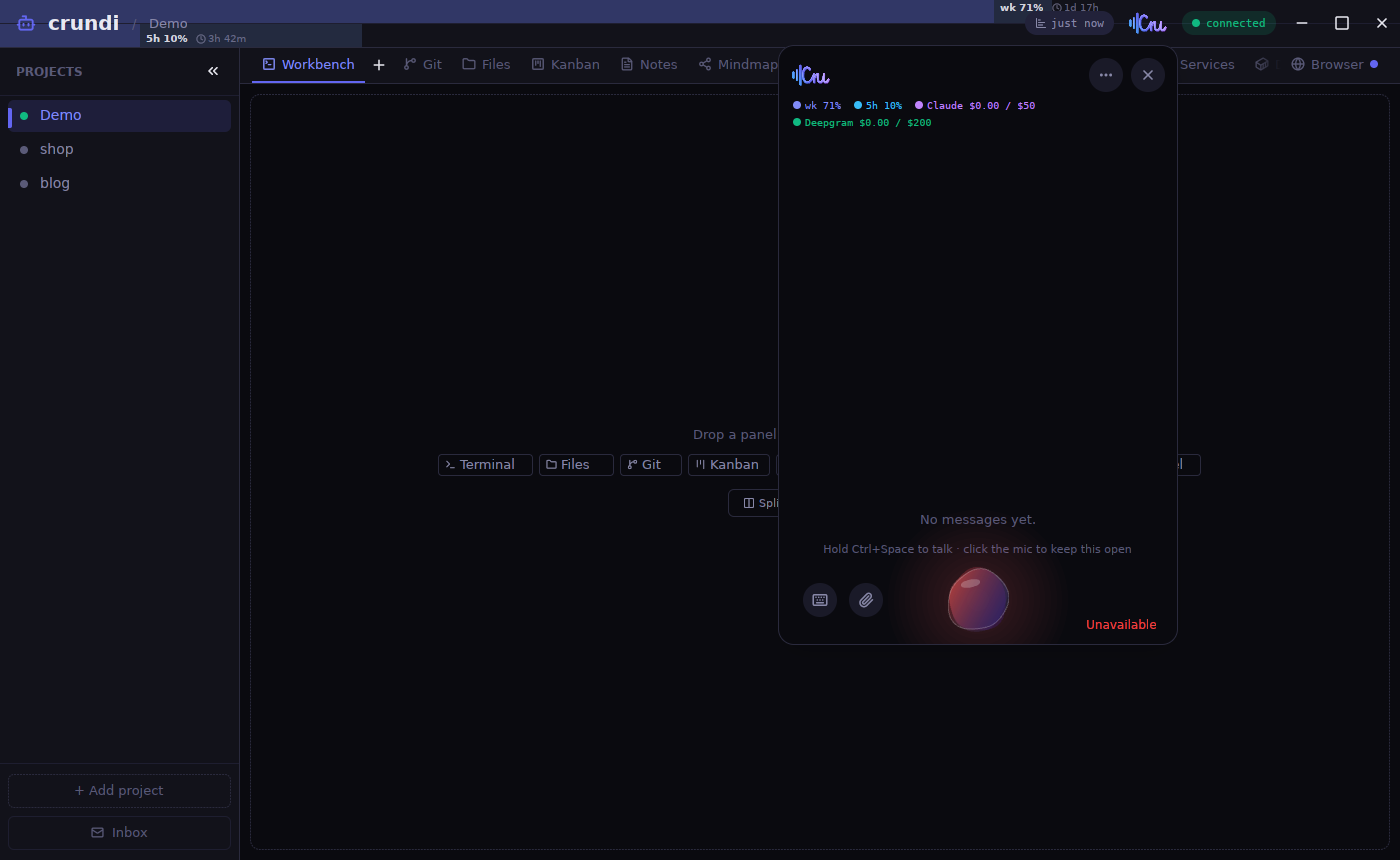
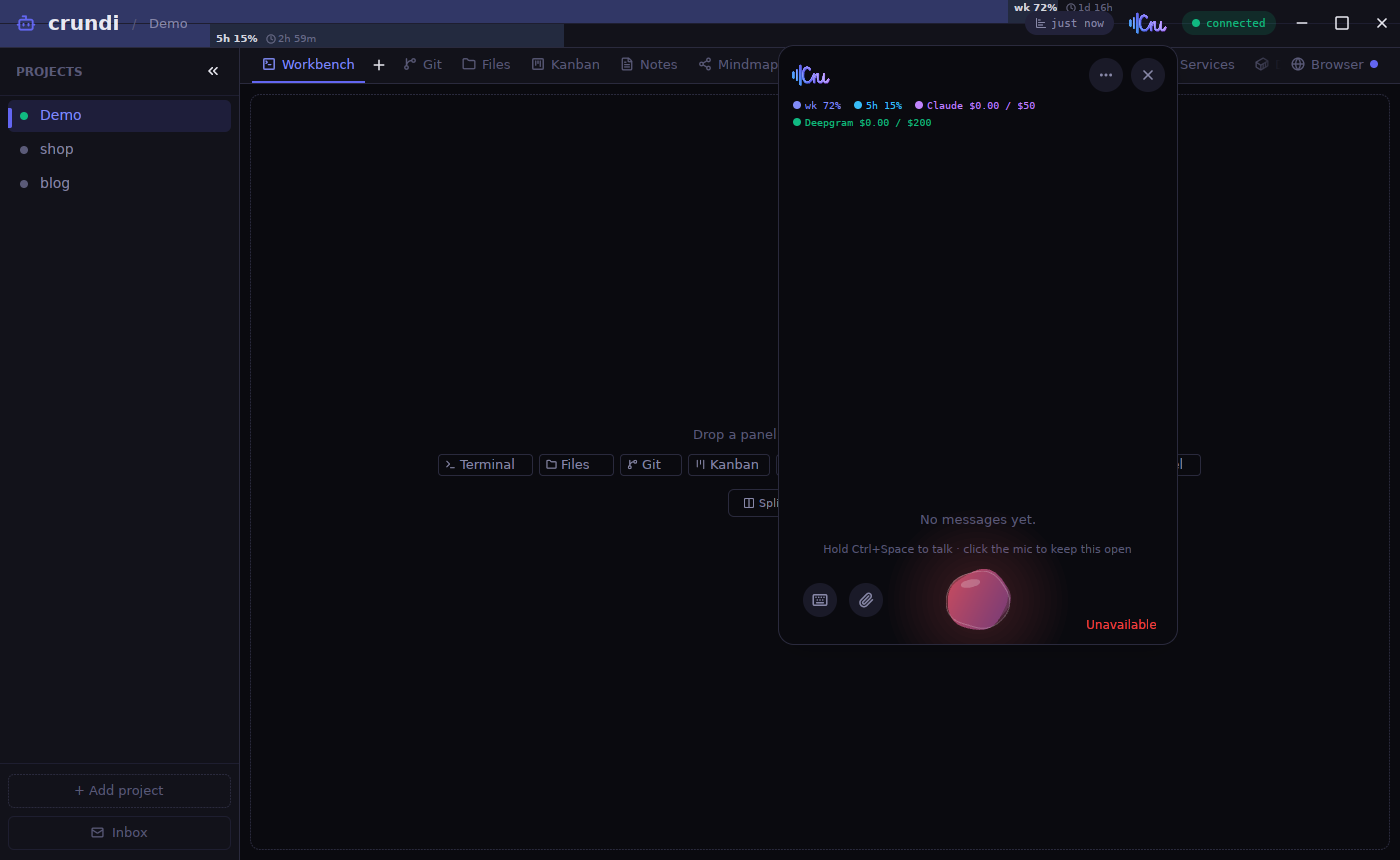
native-gpui: Cru's mic in the web's colours; the tour's Next as the web's
- The mic: the web adds its three layers' light ('lighter', 0.55 each),
  so a state glows in its colours (red and pink when unavailable); GPUI
  paints over, so it came out red to violet. Each layer is now painted in
  the colour the adding gives, over what is under the blob, and its
  gradient is the part of the web's the blob shows (0.276 to 0.724 along
  its wider span).
- The tour's Next and Done: the web's accent glow under them, and the
  focus ring as the PC client shows it (light, outside a dark gap).

Checked: the green project cell in Cru is the web's rule (a project with
an open chat or a running service), not a gap. desktop.mjs ONLY=cru 54/54,
operations.mjs ONLY=extras 49/49.

Made with Crundi (https://crundi.faruhaan.com)

diff --git a/native-gpui/crates/widgets/src/liquid_mic.rs b/native-gpui/crates/widgets/src/liquid_mic.rs
@@ -131,10 +131,23 @@ fn paint(bounds: Bounds<Pixels>, l: &Liquid, look: &MicLook, t: f32, ms: f64, wi
             point(px(cx + sx + (bx - sx) * m), px(cy + sy + (by - sy) * m))
         }).collect()
     };
+    // The web draws the three layers adding light ('lighter', each at 0.55),
+    // which is what makes a red state glow red and pink. GPUI paints over,
+    // not adding, so each layer is painted opaque in the colour the adding
+    // would give: what is under the blob (the panel and the glow at its
+    // middle) plus 0.55 of every layer so far. The layers nearly overlap, so
+    // this is the web's colour everywhere but a hair at their edges.
+    let under = mix(T::bg(), look.layers[0].0, 0.18 + 0.2 * l.lv);
+    let k = 0.55 * look.dim;
+    let (mut s0, mut s1) = (under, under);
     for (i, (c0, c1)) in look.layers.iter().enumerate() {
         let pts = shape(t + i as f32 * 0.7, i as f32 * 1.3);
-        let a = 0.6 * look.dim;
-        let bg = linear_gradient(116., linear_color_stop(c0.opacity(a), 0.), linear_color_stop(c1.opacity(a), 1.));
+        // The web's gradient runs from (-2r,-r) to (2r,r): wider than the
+        // blob, which shows only its middle (0.276 to 0.724 along it).
+        // GPUI's spans the blob itself, so its ends are those colours.
+        s0 = add(s0, mix(*c0, *c1, 0.276), k);
+        s1 = add(s1, mix(*c0, *c1, 0.724), k);
+        let bg = linear_gradient(116., linear_color_stop(Hsla::from(s0), 0.), linear_color_stop(Hsla::from(s1), 1.));
         polygon(window, &pts, Some(bg), None);
     }
     polygon(window, &shape(t, 0.), None, Some((px(1.), T::white().opacity(0.22))));
@@ -160,4 +173,16 @@ pub fn liquid_mic(id: impl Into<ElementId>, liquid: &Liquid, look: MicLook, t: f
         .child(canvas(|_, _, _| {}, move |b, _, window, _| paint(b, &l, &look, t, ms, window))
             .absolute().left((box_size - cw) / 2.).top((box_size - ch) / 2.).w(cw).h(ch))
         .tooltip(crate::tooltip(tip.into()))
+}
+
+/// `base` with `color` laid over it at `alpha` (normal blending), as RGB.
+fn mix(base: Hsla, color: Hsla, alpha: f32) -> Rgba {
+    let (b, c, a) = (base.to_rgb(), color.to_rgb(), alpha.clamp(0., 1.));
+    Rgba { r: b.r + (c.r - b.r) * a, g: b.g + (c.g - b.g) * a, b: b.b + (c.b - b.b) * a, a: 1. }
+}
+
+/// `color` at `k` added to `base`, each channel capped at full: the canvas's
+/// 'lighter' blending.
+fn add(base: Rgba, color: Rgba, k: f32) -> Rgba {
+    Rgba { r: (base.r + color.r * k).min(1.), g: (base.g + color.g * k).min(1.), b: (base.b + color.b * k).min(1.), a: 1. }
 }

diff --git a/native-gpui/crates/widgets/src/label_icon_button.rs b/native-gpui/crates/widgets/src/label_icon_button.rs
@@ -34,5 +34,13 @@ pub fn label_icon_button(id: impl Into<ElementId>, label: impl Into<SharedString
     let b = Button::new(id);
     let b = if look == Look::Primary { b.primary() } else { b };
     b.rounded(radius).flex_none().h(h).px(pad).child(inner)
-        .when(look == Look::Primary && large, |b| b.shadow(vec![BoxShadow { color: T::accent_hover(), offset: point(px(0.), px(0.)), blur_radius: px(0.), spread_radius: T::SP_2, inset: false }]))
+        // The large primary (the tour's Next and Done) as the web's .wn-btn.primary:
+        // its accent glow under it, and the focus ring it has from opening.
+        .when(look == Look::Primary && large, |b| b.shadow(vec![
+            BoxShadow { color: T::accent().opacity(0.35), offset: point(px(0.), T::SP_8), blur_radius: T::SP_24, spread_radius: px(0.), inset: false },
+            // The focus ring as the PC client shows it (the browser's own):
+            // a light ring outside a dark gap.
+            BoxShadow { color: T::text(), offset: point(px(0.), px(0.)), blur_radius: px(0.), spread_radius: T::SP_4, inset: false },
+            BoxShadow { color: T::bg(), offset: point(px(0.), px(0.)), blur_radius: px(0.), spread_radius: T::SP_2, inset: false },
+        ]))
 }
